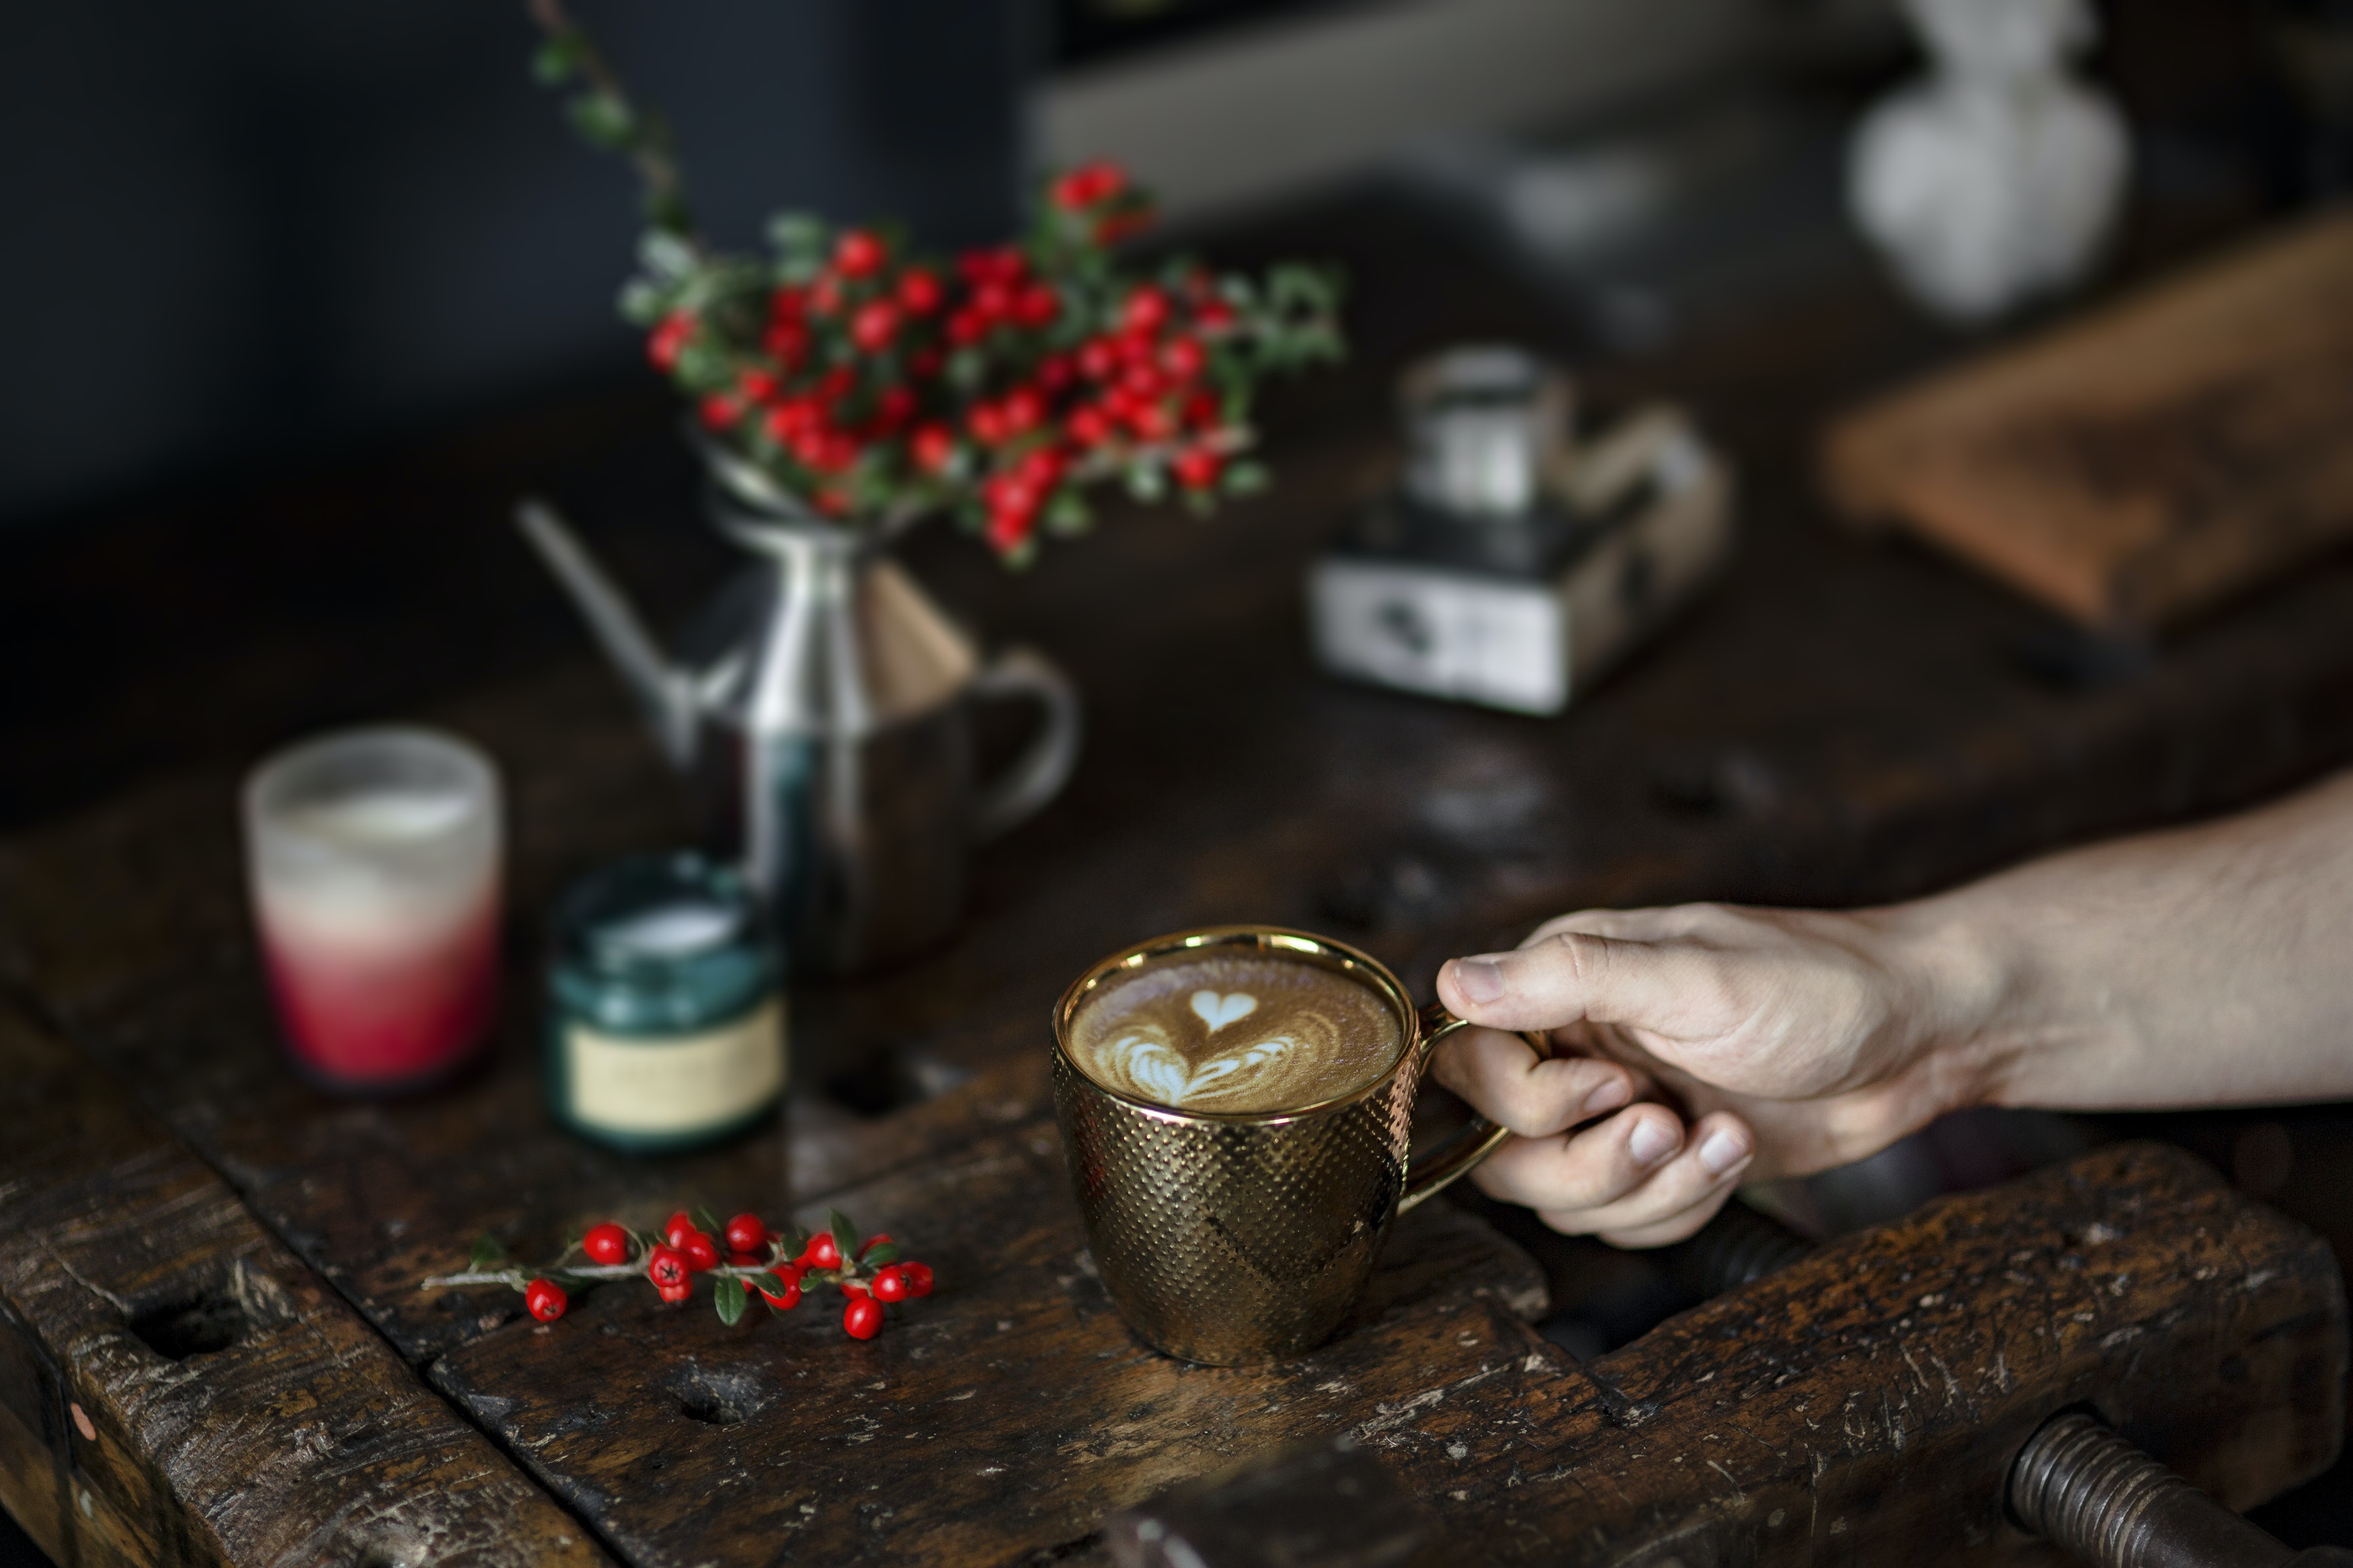
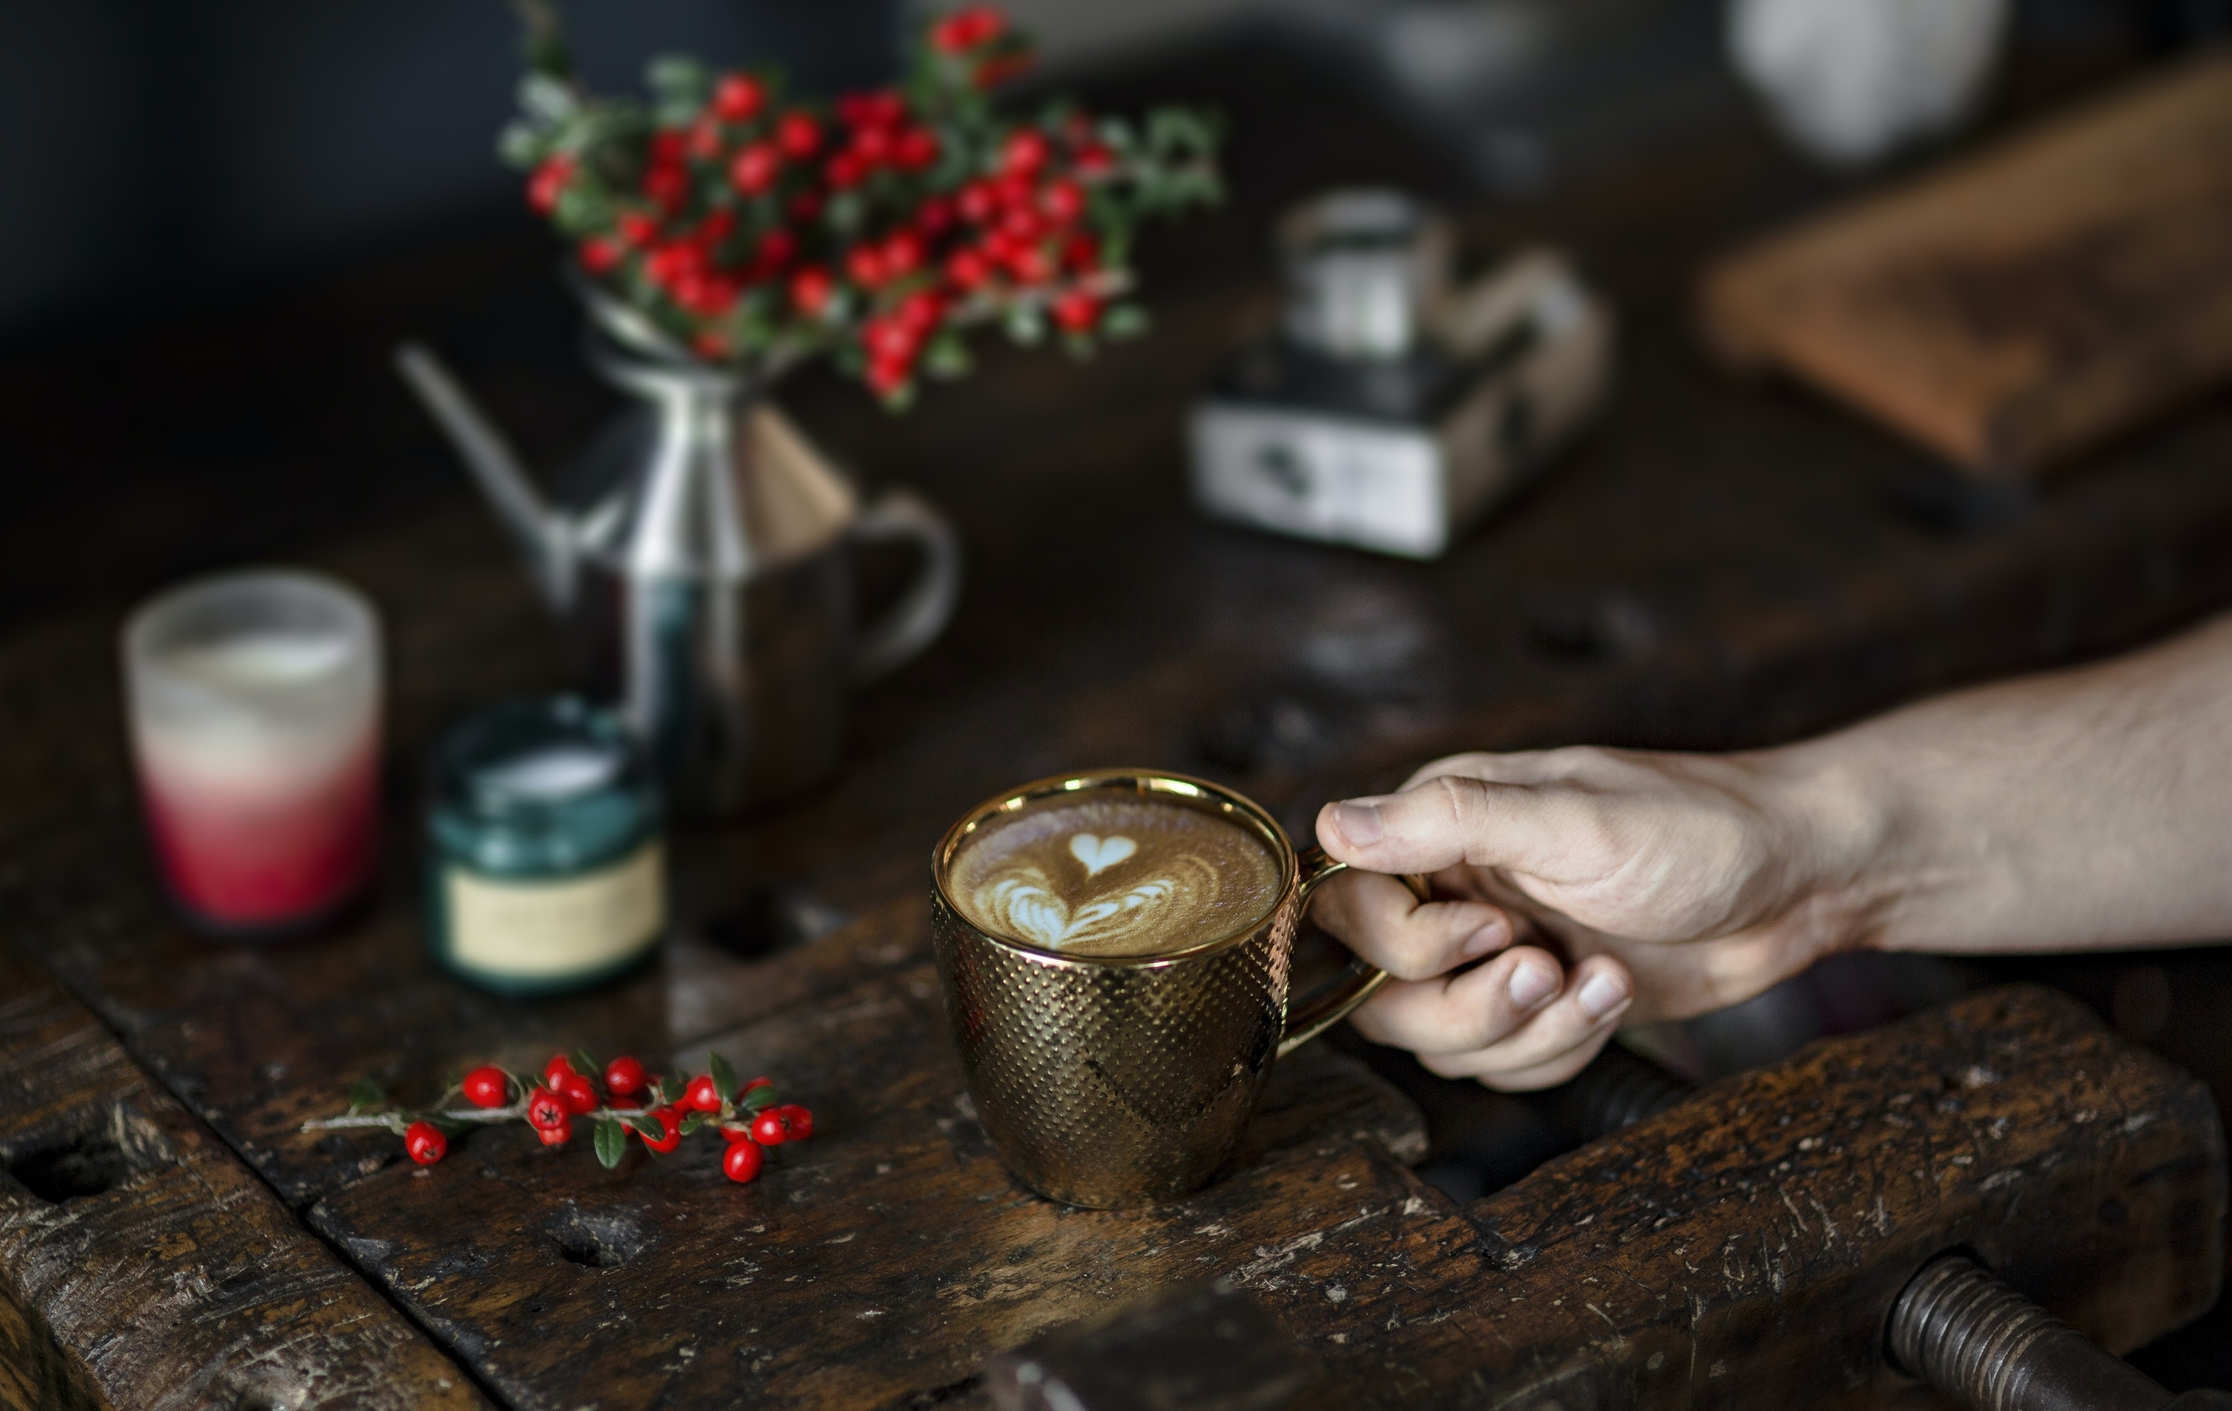
Change the title and put the arrow button

diff --git a/index.html b/index.html
@@ -22,7 +22,7 @@
 </head>
 <body>
     <header class="main-header">
-        <a class="main-action-page" href="">Coffee Shop Landing Page</a>
+        <a class="main-action-page" href="">Coffee House</a>
 
         <nav class="navigation">
             <a class="main-action-lading" href="">Landing</a>
@@ -43,6 +43,7 @@
             <h2 class="main-subtitle">Serving Only the Best since 2013</h2>
             <a class="main-button" href="">SHOP</a>
         </div>
+        <a href=""><img class="arrows" src="assets/arrows.png" alt=""></a>
     </section>
 </body>
 </html>

diff --git a/css/main-banner.css b/css/main-banner.css
@@ -1,5 +1,5 @@
 .main-banner {
-    background-image: url(/img/Originals/banner2.jpg);
+    background-image: url(/img/banner.jpg);
     height: 750px;
     background-repeat: no-repeat;
     background-size: 100%;
@@ -21,3 +21,14 @@
     transform: translateY(-50%);
 }
 
+.main-banner .arrows {
+    width: 45px;
+    height: 45px;
+    margin-left: auto;
+    margin-right: auto;
+    position: absolute;
+    top: 92%;
+    left: 50%;
+    transform: translateY(-50%);
+    transform: translateX(-50%);
+}
